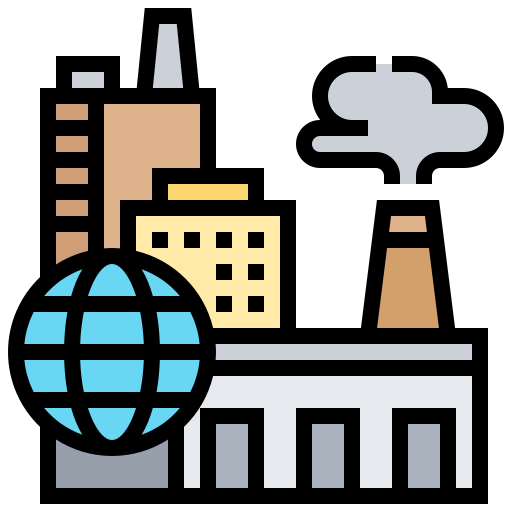
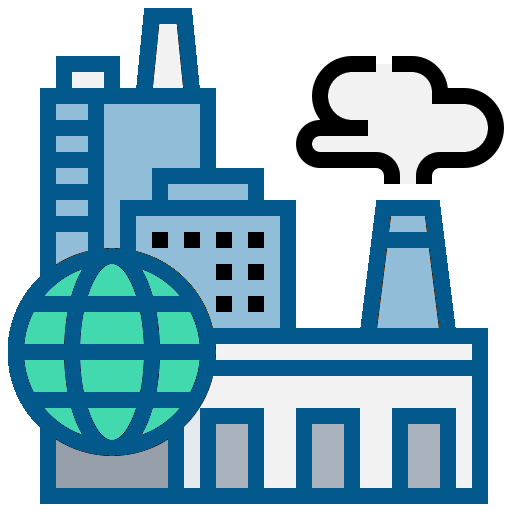
Update contact and images color

diff --git a/index.html b/index.html
@@ -175,8 +175,8 @@
                <div class="col-xl-6 col-lg-6 col-md-6 col-sm-12">
                   <div class="contact">
                      <h3>Contactanos</h3>
-                     <span>La prensa<br>
-                        Quito, Ecuador<br>
+                     <span>EPS-Supplier – EMPRESA UNIPERSONAL </span><br>
+                     <span>Av. De La Prensa 58-96 y Vaca de Castro Ecuador <br> Quito, Ecuador<br>
                      </span>
                      <span>
                         <i class="fa fa-phone"></i>
@@ -195,8 +195,7 @@
                <div class="col-xl-6 col-lg-6 col-md-6 col-sm-12">
                   <div class="contact">
                      <h3>Acerca de Eps-Supplier</h3>
-                     <span>Proveedor Industrial de servicios y repuestos originales, OEM para las industrias
-                        Alimenticia, Farmacéutica, Petrolera y de Generación Eléctrica</span>
+                     <span>Proveedor Industrial de servicios y repuestos originales, OEM para las diferentes industrias</span>
                   </div>
                </div>
             </div>

diff --git a/about.html b/about.html
@@ -241,8 +241,7 @@
                <div class="col-xl-6 col-lg-6 col-md-6 col-sm-12">
                   <div class="contact">
                      <h3>Acerca de Eps-Supplier</h3>
-                     <span>Proveedor Industrial de servicios y repuestos originales, OEM para las industrias
-                        Alimenticia, Farmacéutica, Petrolera y de Generación Eléctrica</span>
+                     <span>Proveedor Industrial de servicios y repuestos originales, OEM para las diferentes industrias</span>
                   </div>
                </div>
             </div>

diff --git a/alimenticio.html b/alimenticio.html
@@ -259,8 +259,7 @@
                <div class="col-xl-6 col-lg-6 col-md-6 col-sm-12">
                   <div class="contact">
                      <h3>Acerca de Eps-Supplier</h3>
-                     <span>Proveedor Industrial de servicios y repuestos originales, OEM para las industrias
-                        Alimenticia, Farmacéutica, Petrolera y de Generación Eléctrica</span>
+                     <span>Proveedor Industrial de servicios y repuestos originales, OEM para las diferentes industrias</span>
                   </div>
                </div>
             </div>

diff --git a/bombas.html b/bombas.html
@@ -377,8 +377,7 @@
                <div class="col-xl-6 col-lg-6 col-md-6 col-sm-12">
                   <div class="contact">
                      <h3>Acerca de Eps-Supplier</h3>
-                     <span>Proveedor Industrial de servicios y repuestos originales, OEM para las industrias
-                        Alimenticia, Farmacéutica, Petrolera y de Generación Eléctrica</span>
+                     <span>Proveedor Industrial de servicios y repuestos originales, OEM para las diferentes industrias</span>
                   </div>
                </div>
             </div>

diff --git a/electrico.html b/electrico.html
@@ -259,8 +259,7 @@
                <div class="col-xl-6 col-lg-6 col-md-6 col-sm-12">
                   <div class="contact">
                      <h3>Acerca de Eps-Supplier</h3>
-                     <span>Proveedor Industrial de servicios y repuestos originales, OEM para las industrias
-                        Alimenticia, Farmacéutica, Petrolera y de Generación Eléctrica</span>
+                     <span>Proveedor Industrial de servicios y repuestos originales, OEM para las diferentes industrias</span>
                   </div>
                </div>
             </div>

diff --git a/industria.html b/industria.html
@@ -269,8 +269,7 @@
                <div class="col-xl-6 col-lg-6 col-md-6 col-sm-12">
                   <div class="contact">
                      <h3>Acerca de Eps-Supplier</h3>
-                     <span>Proveedor Industrial de servicios y repuestos originales, OEM para las industrias
-                        Alimenticia, Farmacéutica, Petrolera y de Generación Eléctrica</span>
+                     <span>Proveedor Industrial de servicios y repuestos originales, OEM para las diferentes industrias</span>
                   </div>
                </div>
             </div>

diff --git a/intercambiadores.html b/intercambiadores.html
@@ -292,8 +292,7 @@
                <div class="col-xl-6 col-lg-6 col-md-6 col-sm-12">
                   <div class="contact">
                      <h3>Acerca de Eps-Supplier</h3>
-                     <span>Proveedor Industrial de servicios y repuestos originales, OEM para las industrias
-                        Alimenticia, Farmacéutica, Petrolera y de Generación Eléctrica</span>
+                     <span>Proveedor Industrial de servicios y repuestos originales, OEM para las diferentes industrias</span>
                   </div>
                </div>
             </div>

diff --git a/mangueras.html b/mangueras.html
@@ -234,8 +234,7 @@
                <div class="col-xl-6 col-lg-6 col-md-6 col-sm-12">
                   <div class="contact">
                      <h3>Acerca de Eps-Supplier</h3>
-                     <span>Proveedor Industrial de servicios y repuestos originales, OEM para las industrias
-                        Alimenticia, Farmacéutica, Petrolera y de Generación Eléctrica</span>
+                     <span>Proveedor Industrial de servicios y repuestos originales, OEM para las diferentes industrias</span>
                   </div>
                </div>
             </div>

diff --git a/motores.html b/motores.html
@@ -231,8 +231,7 @@
                <div class="col-xl-6 col-lg-6 col-md-6 col-sm-12">
                   <div class="contact">
                      <h3>Acerca de Eps-Supplier</h3>
-                     <span>Proveedor Industrial de servicios y repuestos originales, OEM para las industrias
-                        Alimenticia, Farmacéutica, Petrolera y de Generación Eléctrica</span>
+                     <span>Proveedor Industrial de servicios y repuestos originales, OEM para las diferentes industrias</span>
                   </div>
                </div>
             </div>

diff --git a/product.html b/product.html
@@ -371,8 +371,7 @@
                <div class="col-xl-6 col-lg-6 col-md-6 col-sm-12">
                   <div class="contact">
                      <h3>Acerca de Eps-Supplier</h3>
-                     <span>Proveedor Industrial de servicios y repuestos originales, OEM para las industrias
-                        Alimenticia, Farmacéutica, Petrolera y de Generación Eléctrica</span>
+                     <span>Proveedor Industrial de servicios y repuestos originales, OEM para las diferentes industrias</span>
                   </div>
                </div>
             </div>

diff --git a/purificadoras.html b/purificadoras.html
@@ -219,8 +219,7 @@
                <div class="col-xl-6 col-lg-6 col-md-6 col-sm-12">
                   <div class="contact">
                      <h3>Acerca de Eps-Supplier</h3>
-                     <span>Proveedor Industrial de servicios y repuestos originales, OEM para las industrias
-                        Alimenticia, Farmacéutica, Petrolera y de Generación Eléctrica</span>
+                     <span>Proveedor Industrial de servicios y repuestos originales, OEM para las diferentes industrias</span>
                   </div>
                </div>
             </div>

diff --git a/valvulas.html b/valvulas.html
@@ -221,8 +221,7 @@
                <div class="col-xl-6 col-lg-6 col-md-6 col-sm-12">
                   <div class="contact">
                      <h3>Acerca de Eps-Supplier</h3>
-                     <span>Proveedor Industrial de servicios y repuestos originales, OEM para las industrias
-                        Alimenticia, Farmacéutica, Petrolera y de Generación Eléctrica</span>
+                     <span>Proveedor Industrial de servicios y repuestos originales, OEM para las diferentes industrias</span>
                   </div>
                </div>
             </div>
